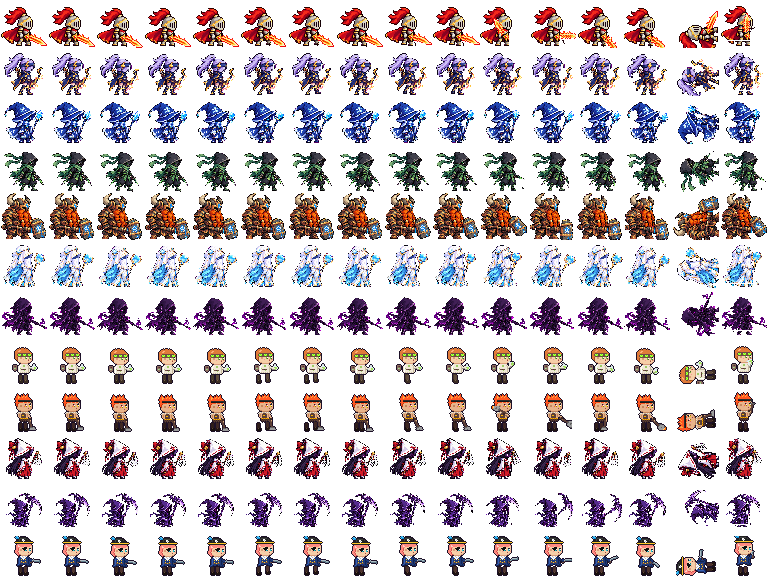
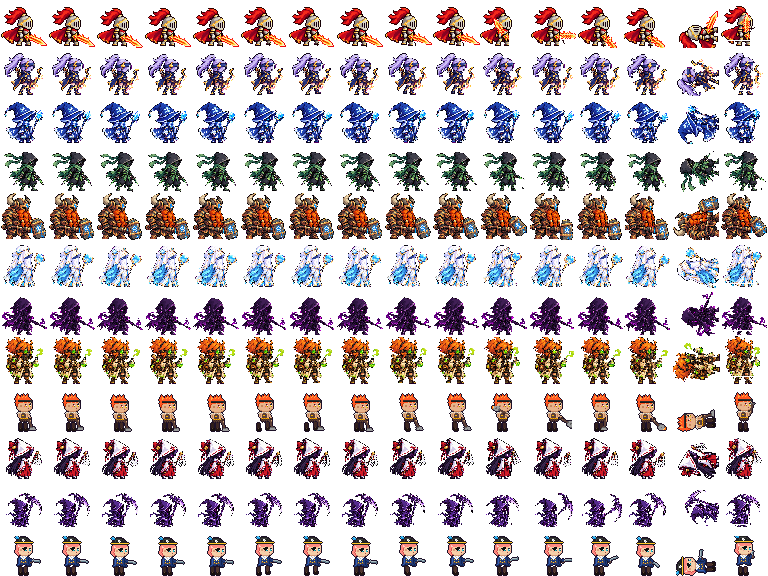
피코 일러스트 적용 (defringe가 분홍이 섞인 테두리도 지우도록 보강)
Claude-Session: https://claude.ai/code/session_01Fxb29UthuHm5NupsxcALjM

Changed region(s): [[0.0, 0.5625, 1.0, 0.6875]]

diff --git a/index.html b/index.html
@@ -8,24 +8,24 @@
   <link rel="preconnect" href="https://fonts.googleapis.com">
   <link rel="preconnect" href="https://fonts.gstatic.com" crossorigin>
   <link href="https://fonts.googleapis.com/css2?family=Black+Han+Sans&family=Noto+Sans+KR:wght@400;700;900&display=swap" rel="stylesheet">
-  <link rel="stylesheet" href="style.css?v=202610221110">
-  <script>window.__ASSET_V = '202610221110';</script>
+  <link rel="stylesheet" href="style.css?v=202610221137">
+  <script>window.__ASSET_V = '202610221137';</script>
   <script type="importmap">
   {
     "imports": {
-      "./src/data.js": "./src/data.js?v=202610221110",
-      "./src/maps.js": "./src/maps.js?v=202610221110",
-      "./src/sim.js": "./src/sim.js?v=202610221110",
-      "./src/mapgen.js": "./src/mapgen.js?v=202610221110",
-      "./src/fx.js": "./src/fx.js?v=202610221110",
-      "./src/render.js": "./src/render.js?v=202610221110",
-      "./src/audio.js": "./src/audio.js?v=202610221110",
-      "./src/net.js": "./src/net.js?v=202610221110",
-      "./src/save.js": "./src/save.js?v=202610221110",
-      "./src/ui.js": "./src/ui.js?v=202610221110",
-      "./src/cloud.js": "./src/cloud.js?v=202610221110",
-      "./src/social.js": "./src/social.js?v=202610221110",
-      "./src/config.js": "./src/config.js?v=202610221110"
+      "./src/data.js": "./src/data.js?v=202610221137",
+      "./src/maps.js": "./src/maps.js?v=202610221137",
+      "./src/sim.js": "./src/sim.js?v=202610221137",
+      "./src/mapgen.js": "./src/mapgen.js?v=202610221137",
+      "./src/fx.js": "./src/fx.js?v=202610221137",
+      "./src/render.js": "./src/render.js?v=202610221137",
+      "./src/audio.js": "./src/audio.js?v=202610221137",
+      "./src/net.js": "./src/net.js?v=202610221137",
+      "./src/save.js": "./src/save.js?v=202610221137",
+      "./src/ui.js": "./src/ui.js?v=202610221137",
+      "./src/cloud.js": "./src/cloud.js?v=202610221137",
+      "./src/social.js": "./src/social.js?v=202610221137",
+      "./src/config.js": "./src/config.js?v=202610221137"
     }
   }
   </script>
@@ -45,6 +45,6 @@
     <div id="aug" hidden></div>
     <div id="menu" class="overlay"></div>
   </div>
-  <script type="module" src="./src/main.js?v=202610221110"></script>
+  <script type="module" src="./src/main.js?v=202610221137"></script>
 </body>
 </html>

diff --git a/src/data.js b/src/data.js
@@ -325,7 +325,7 @@ export const GACHA = { luckPer: 0.06, pity: 45, jackpot: 0.04, jackpotGold: [110
 export const HERO_SPRITE = { size: 48, draw: 72, frames: 16, portrait: 64 };
 // 직접 그려 온 촘촘한 도트는 영웅마다 따로 (한 줄 16칸, 칸 크기 cell, 화면 배율 scale). 발끝은 칸 아래에서 2칸 위
 // 기본 도트(heroes.png)를 쓰는 영웅의 화면 크기 배율 (일러스트 영웅들과 키를 맞춤)
-export const HERO_SIZE = { knight: 1.25, alchemist: 1.2, berserker: 1.2, pirate: 1.2 };
+export const HERO_SIZE = { knight: 1.25, berserker: 1.2, pirate: 1.2 };
 export const HERO_SHEETS = {
   archer: { file: 'hero_archer.png', cell: 72, scale: 1.12 },
   mage: { file: 'hero_mage.png', cell: 104, scale: 0.78 },
@@ -335,6 +335,7 @@ export const HERO_SHEETS = {
   reaper: { file: 'hero_reaper.png', cell: 128, scale: 0.72 },
   sniper: { file: 'hero_sniper.png', cell: 176, scale: 0.5 },
   guardian: { file: 'hero_guardian.png', cell: 160, scale: 0.5 },
+  alchemist: { file: 'hero_alchemist.png', cell: 216, scale: 0.34 },
 };
 
 // ---------- 적 (assets/enemies.png 24x24: 종류마다 [걷기1, 걷기2, 쓰러짐]) ----------

diff --git a/tools/import_sprite.py b/tools/import_sprite.py
@@ -151,12 +151,12 @@ def main(src, out, p=None, target=None, mode=''):
     big = max(sizes, key=sizes.get)
     res[lab != big] = 0
     if mode == 'defringe':  # 보라색이 없는 캐릭터: 테두리에 남은 분홍빛 보라 점 지우기
-        for _ in range(2):
+        for _ in range(3):
             a = res[:, :, 3] > 0
             edge = np.zeros_like(a)
             edge[1:-1, 1:-1] = a[1:-1, 1:-1] & ~(a[:-2, 1:-1] & a[2:, 1:-1] & a[1:-1, :-2] & a[1:-1, 2:])
             r, g, b = (res[:, :, k].astype(int) for k in range(3))
-            res[edge & (r > 90) & (b > 90) & (g < 80) & (np.abs(r - b) < 90)] = 0
+            res[edge & (((b > 50) & (r > g + 25) & (b > g + 25)) | ((b > g + 5) & (r > g + 60)))] = 0
     img = Image.fromarray(res, 'RGBA')
     img = img.crop(img.getbbox())
     if target:

diff --git a/tools/hero_art.py b/tools/hero_art.py
@@ -596,6 +596,9 @@ HEROES['alchemist'] = dict(
     ], pivot=(2, 4)),
     kind='hold', legs=('p', 'o', 'O'), arm='a', glove='a',
     ang=dict(rest=0, windup=-50, strike=-10, follow=20, hurt=30, win=-70),
+    # 직접 그려 온 도트 (tools/art/src/alchemist.png → import_sprite.py 4.25 "" defringe). 플라스크(+연기)만 손을 축으로 던지듯 흔듦
+    sprite=dict(file='tools/art/alchemist.png', cell=216, scale=0.34, weapon_from=(999, 999), weapon_extra=((132, 50, 174, 142),), pivot=(137, 108), legs=(180, 92), face=(66, 36, 64),
+                ang=dict(rest=0, windup=-25, strike=18, follow=8, hurt=8, win=-20)),
 )
 
 # =====================================================================
